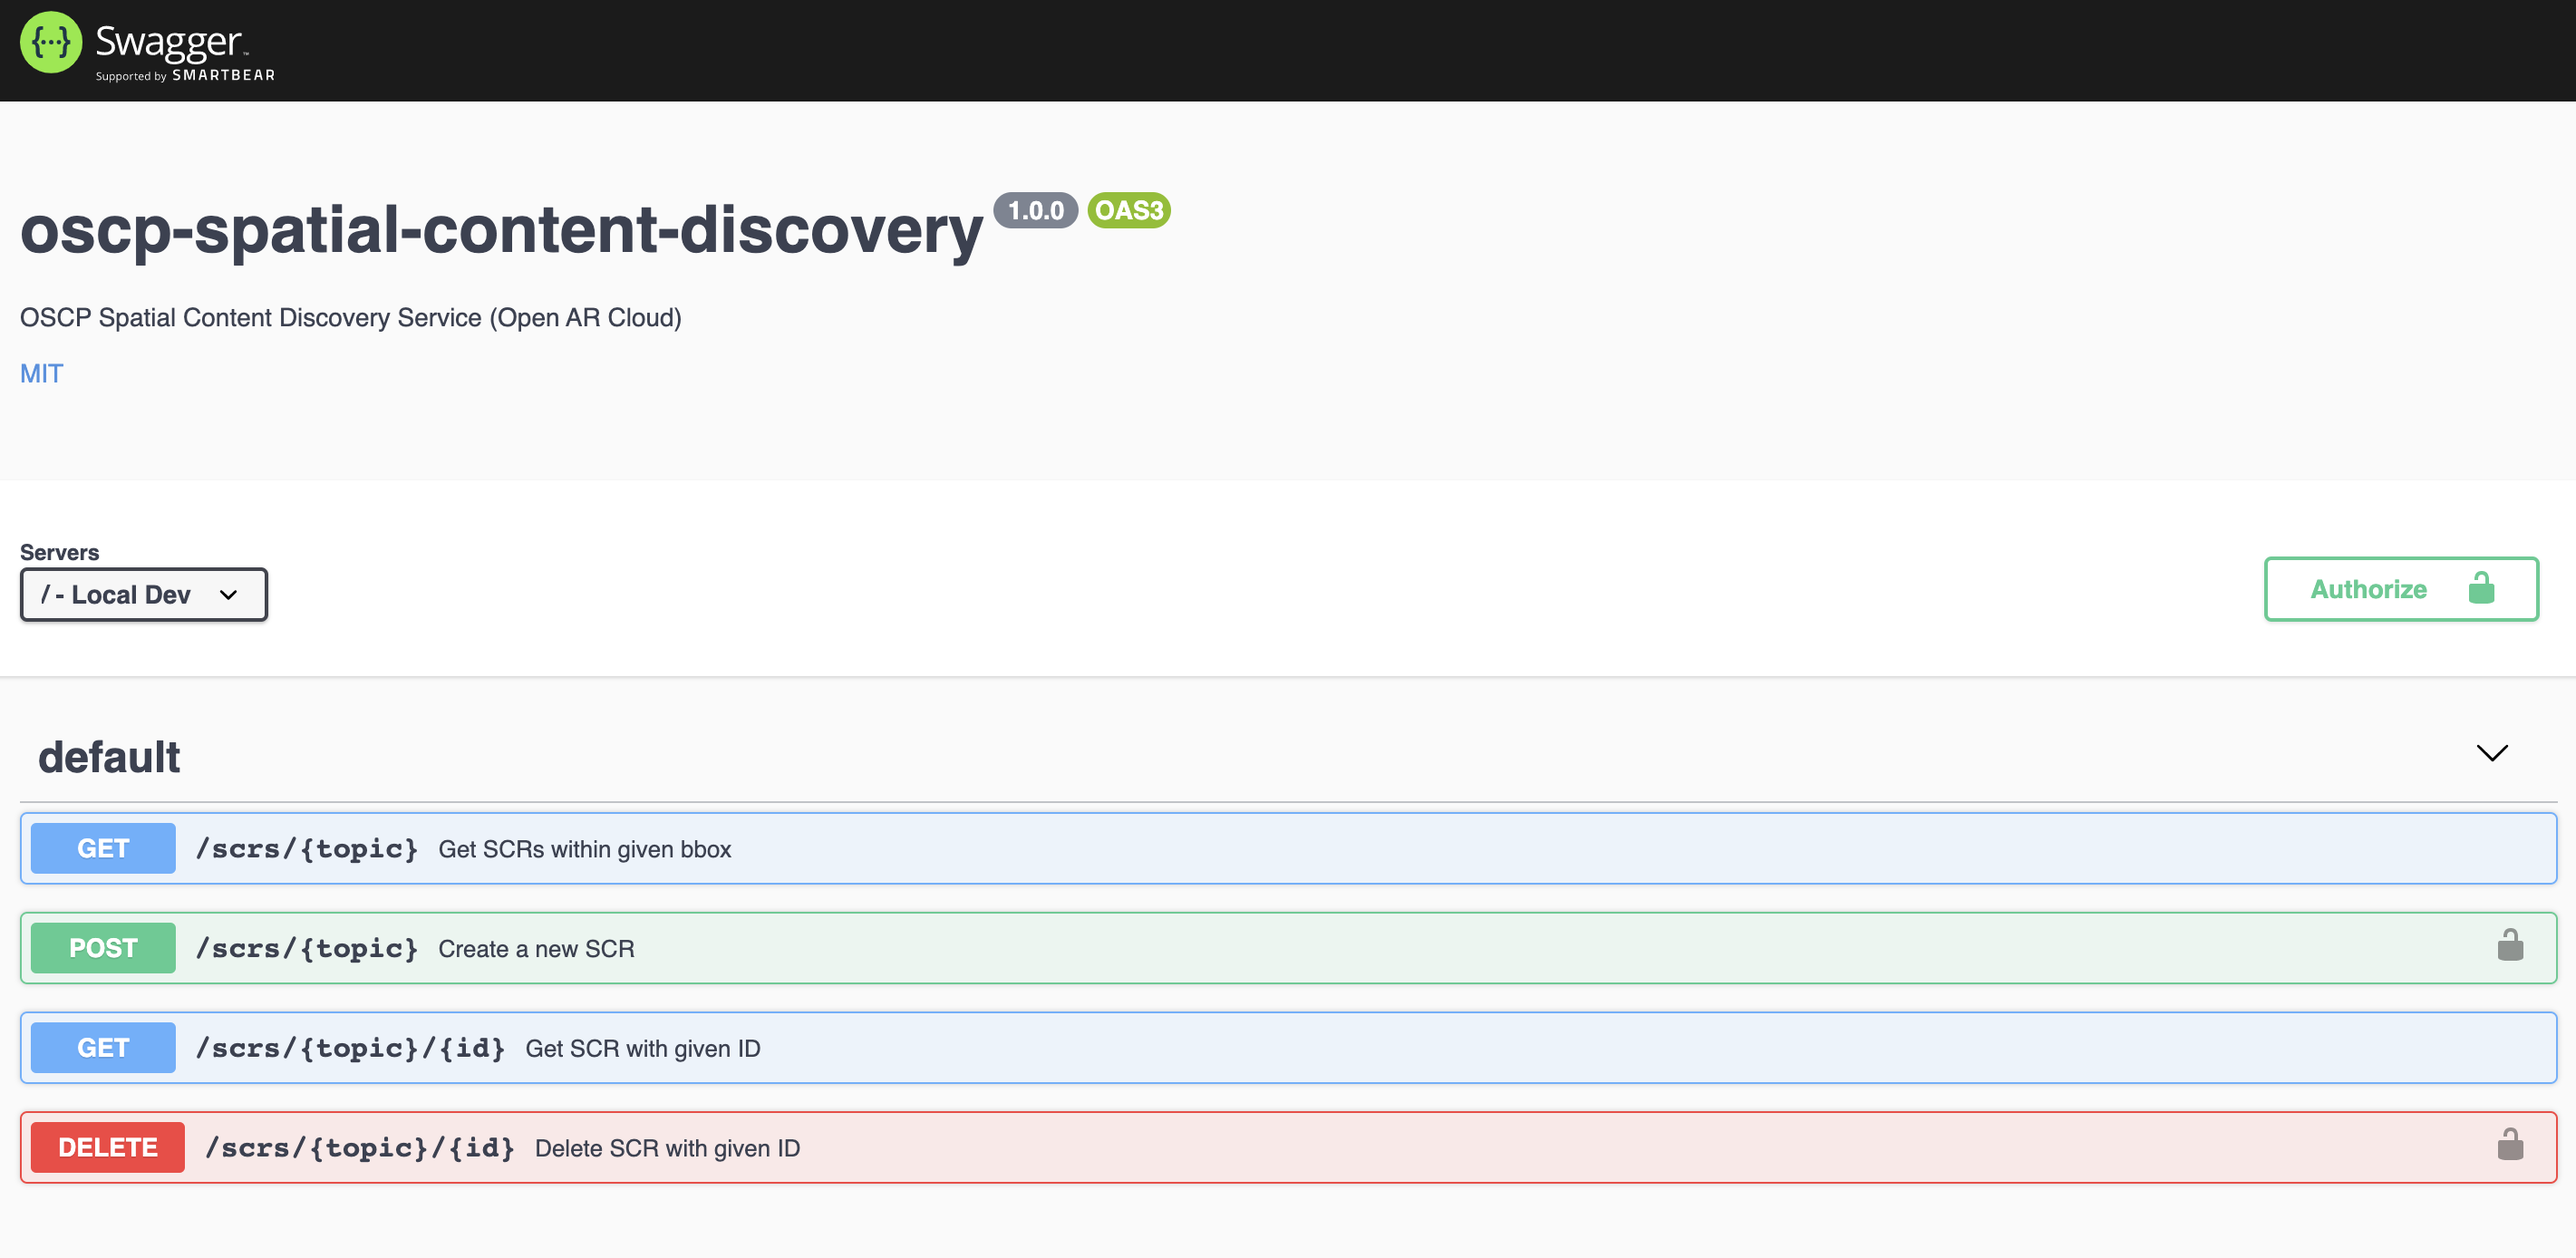
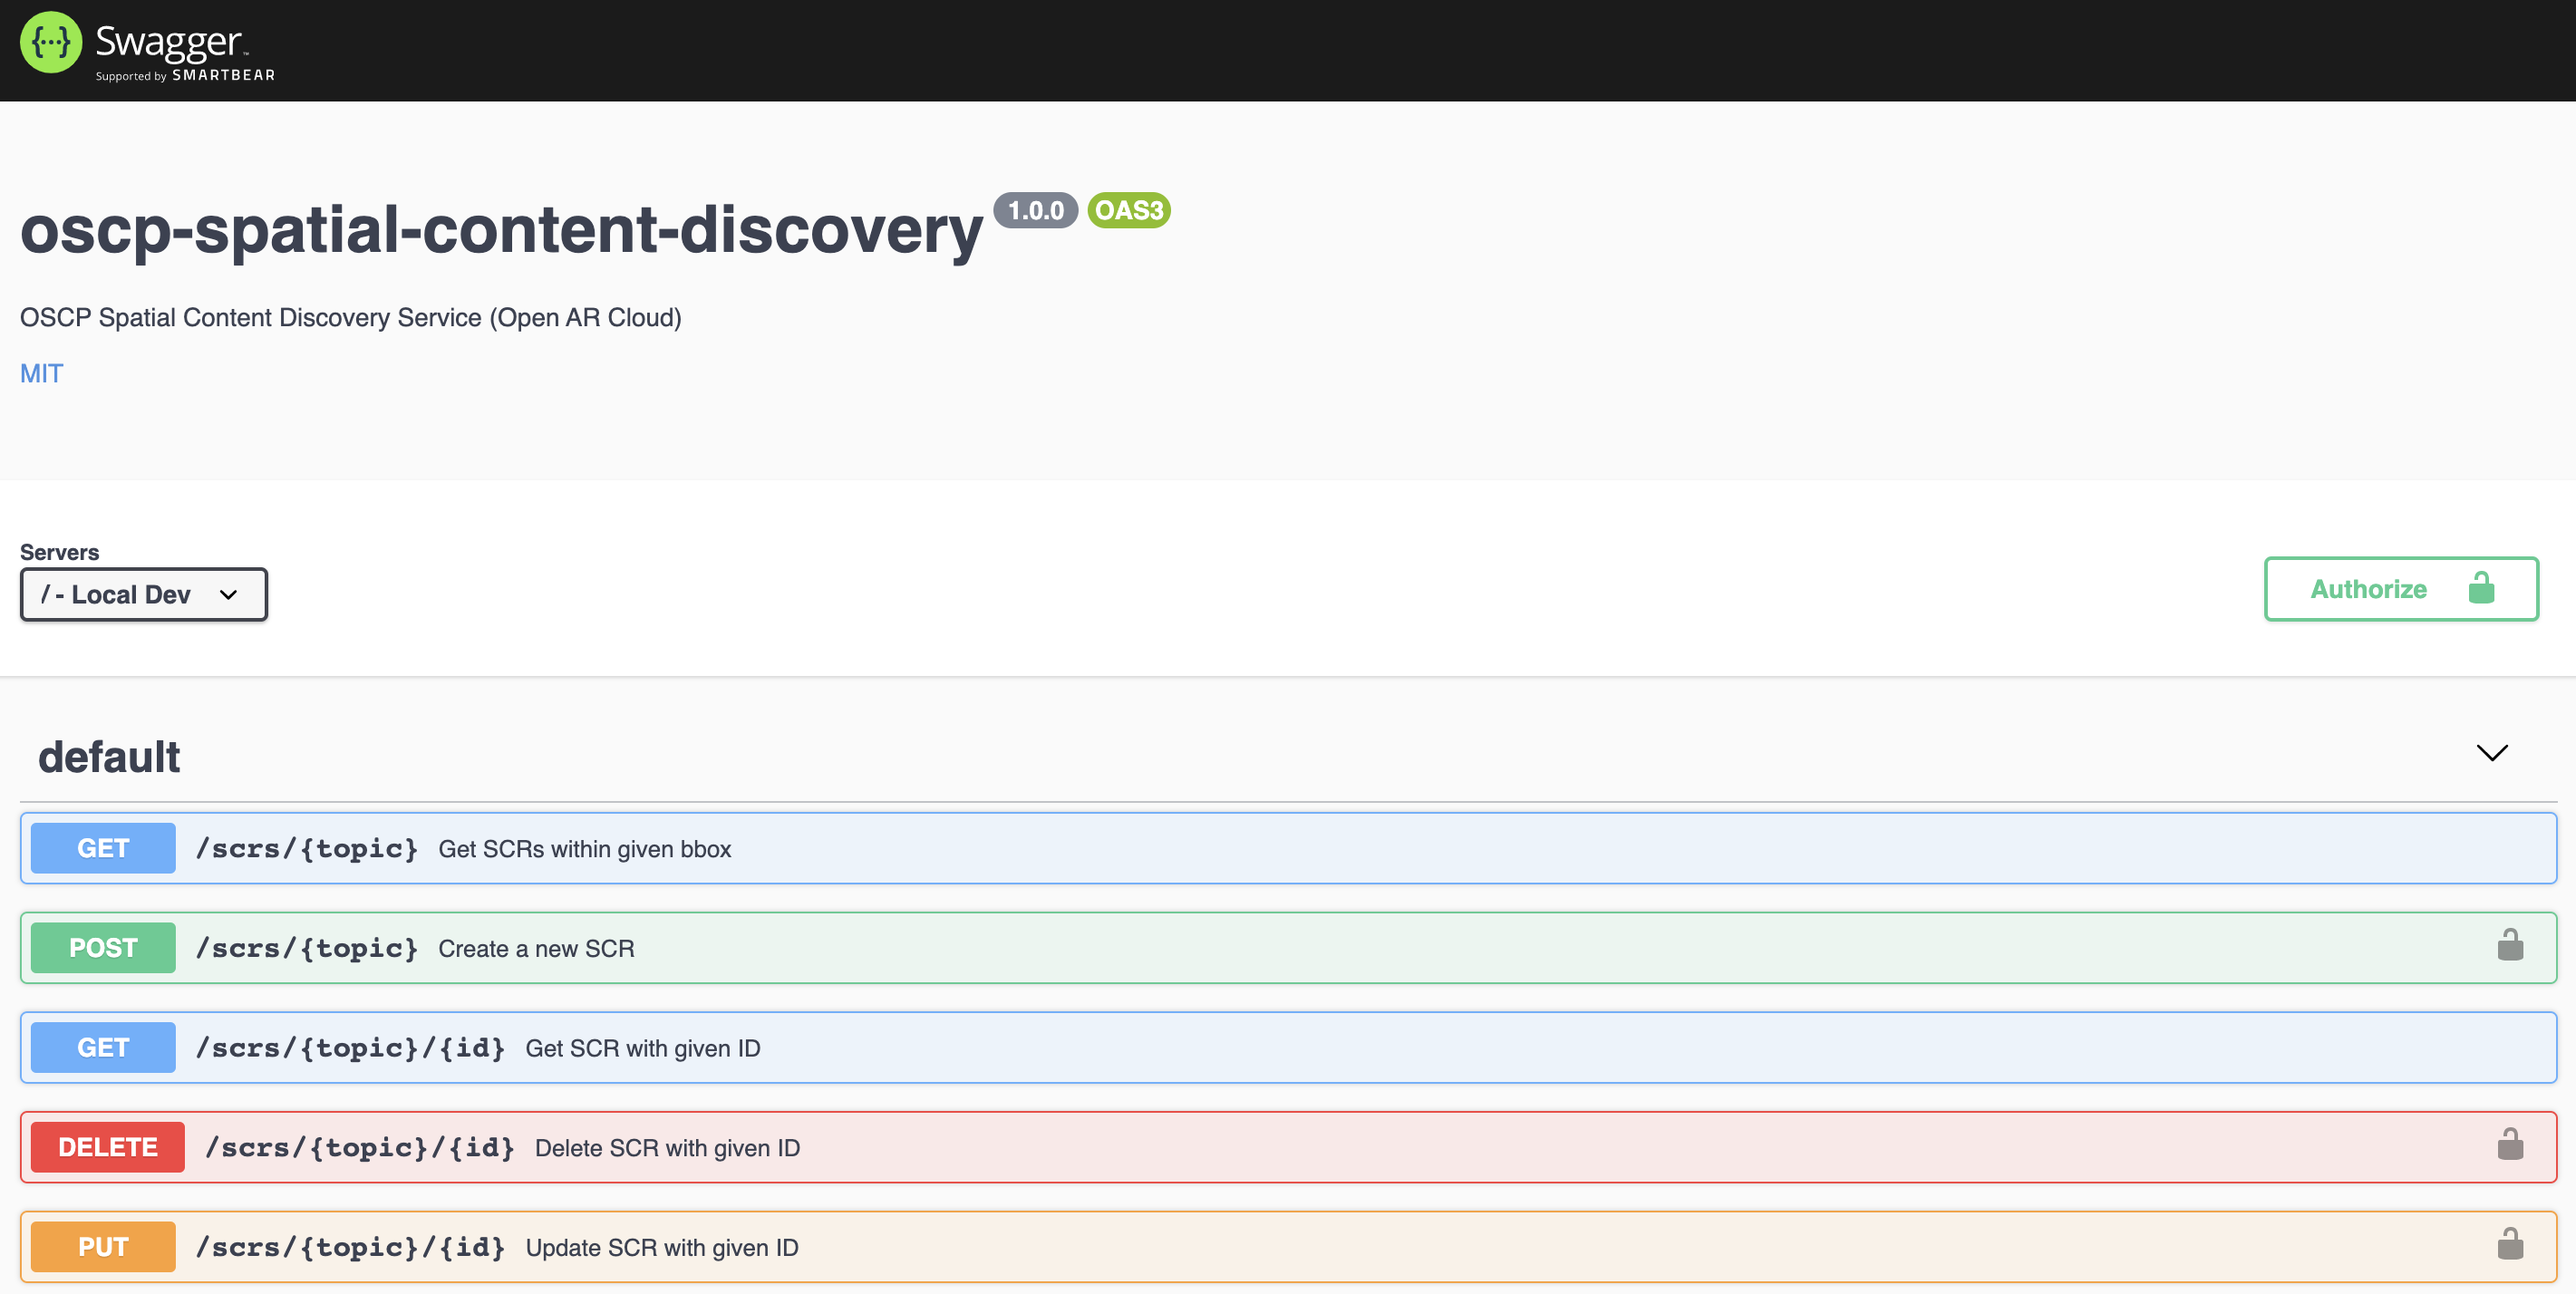
scr update logic

diff --git a/src/service.ts b/src/service.ts
@@ -38,7 +38,6 @@ TOPICS.forEach((topic) => {
 });
 
 export const find = async (topic: string, id: string): Promise<Scr> => {
-
   if (!TOPICS.includes(topic)) throw new Error("Invalid topic");
 
   const osmGet = new Promise<Element[]>((resolve, reject) => {
@@ -50,39 +49,36 @@ export const find = async (topic: string, id: string): Promise<Scr> => {
 
   const nodes: Element[] = await osmGet;
 
-  if (nodes.length > 0) {
-    if (nodes[0].deleted) {
-      throw new Error("No record found");
-    }
+  if (nodes.length === 0) throw new Error("No record found");
+  if (nodes[0].deleted) throw new Error("No record found");
 
-    const mapResponse = (response: Element[]) =>
-      response.map((p) => ({
-        id: p.id,
-        type: "scr",
-        geopose: {
-          north: +p.lat,
-          east: +p.lon,
-          vertical: +p.tags.geopose_vertical,
-          qNorth: +p.tags.geopose_qNorth,
-          qEast: +p.tags.geopose_qEast,
-          qVertical: +p.tags.geopose_qVertical,
-          qW: +p.tags.geopose_qW,
-        },
-        url: p.tags.url,
-        tenant: p.tags.tenant,
-        timestamp: p.timestamp,
-      }));
+  const mapResponse = (response: Element[]) =>
+    response.map((p) => ({
+      id: p.id,
+      type: "scr",
+      geopose: {
+        north: +p.lat,
+        east: +p.lon,
+        vertical: +p.tags.geopose_vertical,
+        qNorth: +p.tags.geopose_qNorth,
+        qEast: +p.tags.geopose_qEast,
+        qVertical: +p.tags.geopose_qVertical,
+        qW: +p.tags.geopose_qW,
+      },
+      url: p.tags.url,
+      tenant: p.tags.tenant,
+      timestamp: p.timestamp,
+    }));
 
-    const scrs: Scr[] = mapResponse(nodes);
-
-    return scrs[0];
-  }
-
-  throw new Error("No record found");
+  const scrs: Scr[] = mapResponse(nodes);
+  return scrs[0];
 };
 
-export const remove = async (topic: string, id: string, tenant: string): Promise<void> => {
-
+export const remove = async (
+  topic: string,
+  id: string,
+  tenant: string
+): Promise<void> => {
   if (!TOPICS.includes(topic)) throw new Error("Invalid topic");
 
   const osmGet = new Promise<Element[]>((resolve, reject) => {
@@ -94,38 +90,30 @@ export const remove = async (topic: string, id: string, tenant: string): Promise
 
   const nodes: Element[] = await osmGet;
 
-  if (nodes.length > 0) {
-    if (nodes[0].deleted) {
-      throw new Error("No record found");
-    }
+  if (nodes.length === 0) throw new Error("No record found");
+  if (nodes[0].deleted) throw new Error("No record found");
+  if (nodes[0].tags.tenant.toUpperCase() !== tenant.toUpperCase())
+    throw new Error("Invalid tenant");
 
-    if (nodes[0].tags.tenant.toUpperCase() !== tenant.toUpperCase()) {
-      throw new Error("Invalid tenant");
-    }
+  const osmDel = new Promise((resolve, reject) => {
+    kappaCores[topic].del(
+      nodes[0].id,
+      { changeset: nodes[0].changeset },
+      function (err) {
+        if (err) reject(err);
+        else resolve();
+      }
+    );
+  });
 
-    const osmDel = new Promise((resolve, reject) => {
-      kappaCores[topic].del(
-        nodes[0].id,
-        { changeset: nodes[0].changeset },
-        function (err) {
-          if (err) reject(err);
-          else resolve();
-        }
-      );
-    });
-
-    await osmDel;
-    return;
-  }
-
-  throw new Error("No record found to delete");
+  await osmDel;
+  return;
 };
 
 export const findBbox = async (
   topic: string,
   bboxStr: string
 ): Promise<Scr[]> => {
-
   if (!TOPICS.includes(topic)) throw new Error("Invalid topic");
 
   const bboxArr = bboxStr.split(",");
@@ -187,18 +175,17 @@ export const findBbox = async (
   return scrs;
 };
 
-export const create = async (topic: string, scr: ScrDto, tenant: string): Promise<string> => {
-
+export const create = async (
+  topic: string,
+  scr: ScrDto,
+  tenant: string
+): Promise<string> => {
   if (!TOPICS.includes(topic)) throw new Error("Invalid topic");
 
   try {
     await validateOrReject(scr);
   } catch (errors) {
     throw new Error("Validation failed");
-  }
-
-  if (tenant.toUpperCase() !== scr.tenant.toUpperCase()) {
-    throw new Error("Invalid tenant");
   }
 
   const node: Element = {
@@ -213,7 +200,7 @@ export const create = async (topic: string, scr: ScrDto, tenant: string): Promis
       geopose_qVertical: scr.geopose.qVertical,
       geopose_qW: scr.geopose.qW,
       url: scr.url,
-      tenant: scr.tenant
+      tenant: tenant,
     },
   };
 
@@ -231,4 +218,59 @@ export const create = async (topic: string, scr: ScrDto, tenant: string): Promis
   }
 
   return nodeResp.id;
+};
+
+export const update = async (
+  topic: string,
+  id: string,
+  scr: ScrDto,
+  tenant: string
+): Promise<void> => {
+  if (!TOPICS.includes(topic)) throw new Error("Invalid topic");
+
+  try {
+    await validateOrReject(scr);
+  } catch (errors) {
+    throw new Error("Validation failed");
+  }
+
+  const osmGet = new Promise<Element[]>((resolve, reject) => {
+    kappaCores[topic].get(id, function (err, nodes) {
+      if (err) reject(err);
+      else resolve(nodes);
+    });
+  });
+
+  const nodes: Element[] = await osmGet;
+
+  if (nodes.length === 0) throw new Error("No record found");
+  if (nodes[0].deleted) throw new Error("No record found");
+  if (nodes[0].tags.tenant.toUpperCase() !== tenant.toUpperCase())
+    throw new Error("Invalid tenant");
+
+  const node: Element = {
+    type: "node",
+    changeset: "abcdef",
+    lon: scr.geopose.east,
+    lat: scr.geopose.north,
+    tags: {
+      geopose_vertical: scr.geopose.vertical,
+      geopose_qNorth: scr.geopose.qNorth,
+      geopose_qEast: scr.geopose.qEast,
+      geopose_qVertical: scr.geopose.qVertical,
+      geopose_qW: scr.geopose.qW,
+      url: scr.url,
+      tenant: tenant,
+    },
+  };
+
+  const osmPut = new Promise<Element>((resolve, reject) => {
+    kappaCores[topic].put(nodes[0].id, node, function (err, nodes) {
+      if (err) reject(err);
+      else resolve(nodes);
+    });
+  });
+
+  await osmPut;
+  return;
 };

diff --git a/src/router.ts b/src/router.ts
@@ -34,7 +34,9 @@ class Router {
       jwtAuthz(["delete:scrs"]),
       async (req: express.Request, res: express.Response) => {
         try {
-          const tenant: string = String(req['user'][AUTH0_AUDIENCE + '/tenant']);
+          const tenant: string = String(
+            req["user"][AUTH0_AUDIENCE + "/tenant"]
+          );
           const topic: string = String(req.params.topic);
           const id: string = String(req.params.id);
           await Service.remove(topic, id, tenant);
@@ -65,7 +67,9 @@ class Router {
       jwtAuthz(["create:scrs"]),
       async (req: express.Request, res: express.Response) => {
         try {
-          const tenant: string = String(req['user'][AUTH0_AUDIENCE + '/tenant']);
+          const tenant: string = String(
+            req["user"][AUTH0_AUDIENCE + "/tenant"]
+          );
           const topic: string = String(req.params.topic);
           let scr = new ScrDto();
           Object.assign(scr, req.body);
@@ -73,6 +77,27 @@ class Router {
           res.status(201).send(id);
         } catch (e) {
           res.status(404).send(e.message);
+        }
+      }
+    );
+
+    router.put(
+      "/scrs/:topic/:id",
+      checkJwt,
+      jwtAuthz(["update:scrs"]),
+      async (req: express.Request, res: express.Response) => {
+        try {
+          const tenant: string = String(
+            req["user"][AUTH0_AUDIENCE + "/tenant"]
+          );
+          const topic: string = String(req.params.topic);
+          const id: string = String(req.params.id);
+          let scr = new ScrDto();
+          Object.assign(scr, req.body);
+          await Service.update(topic, id, scr, tenant);
+          res.sendStatus(200);
+        } catch (e) {
+          res.status(500).send(e.message);
         }
       }
     );

diff --git a/src/models/scr.dto.ts b/src/models/scr.dto.ts
@@ -37,9 +37,6 @@ export class ScrDto {
   @Equals("scr")
   type: string;
 
-  @IsString()
-  tenant: string;
-
   geopose: GeoPoseDto;
 
   @IsUrl()

diff --git a/README.md b/README.md
@@ -113,3 +113,4 @@ Documents (OSM elements, observations, etc) have a common format within [kappa-o
 - [x] Multiple topics/themes via separate kappa core instances
 - [x] Re-integrate Hyperswarm synchronization
 - [x] REST API authentication multi-tenancy
+- [x] Update spatial content record via REST API (single)
